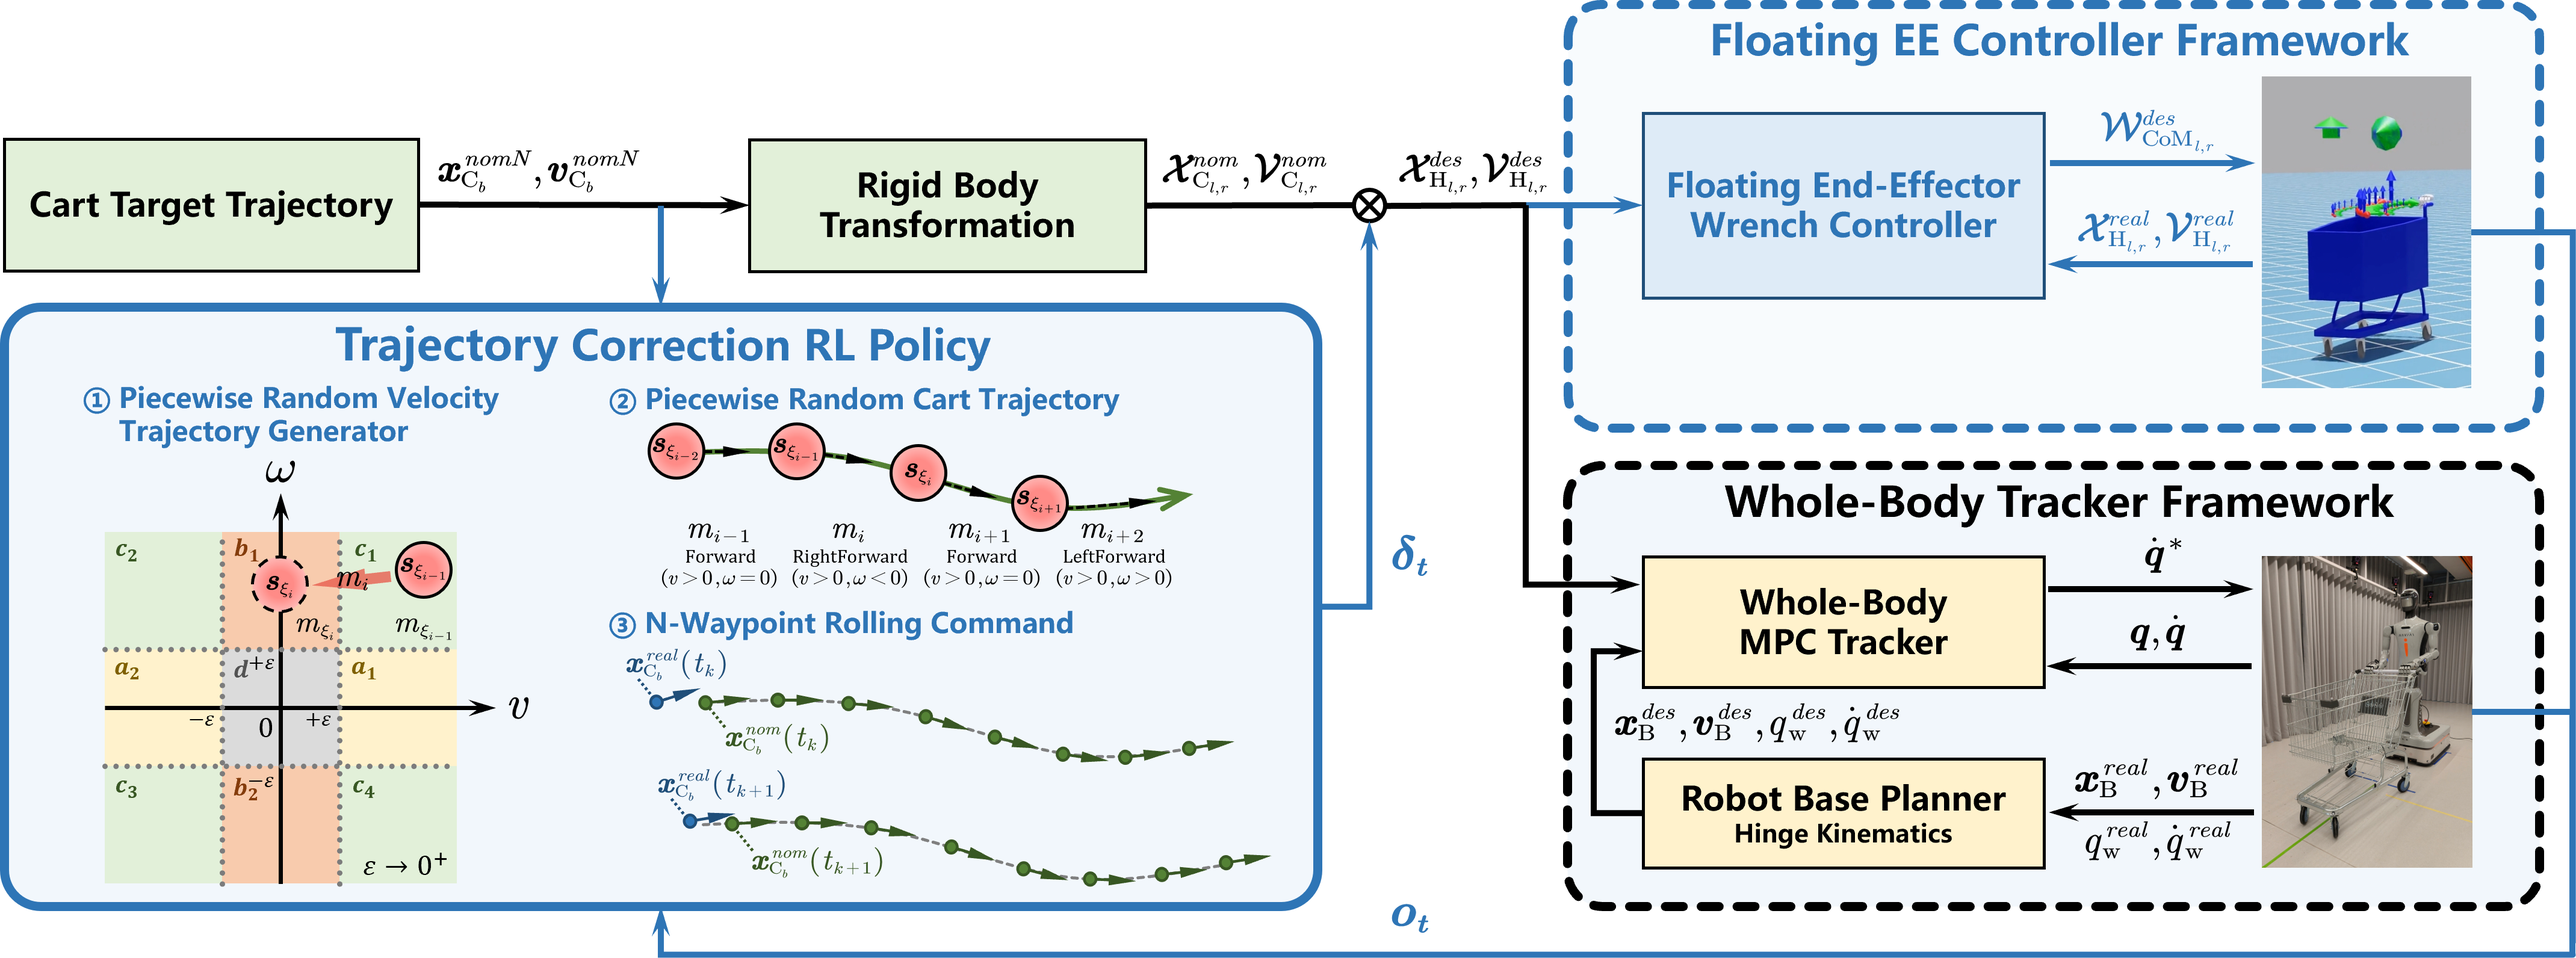
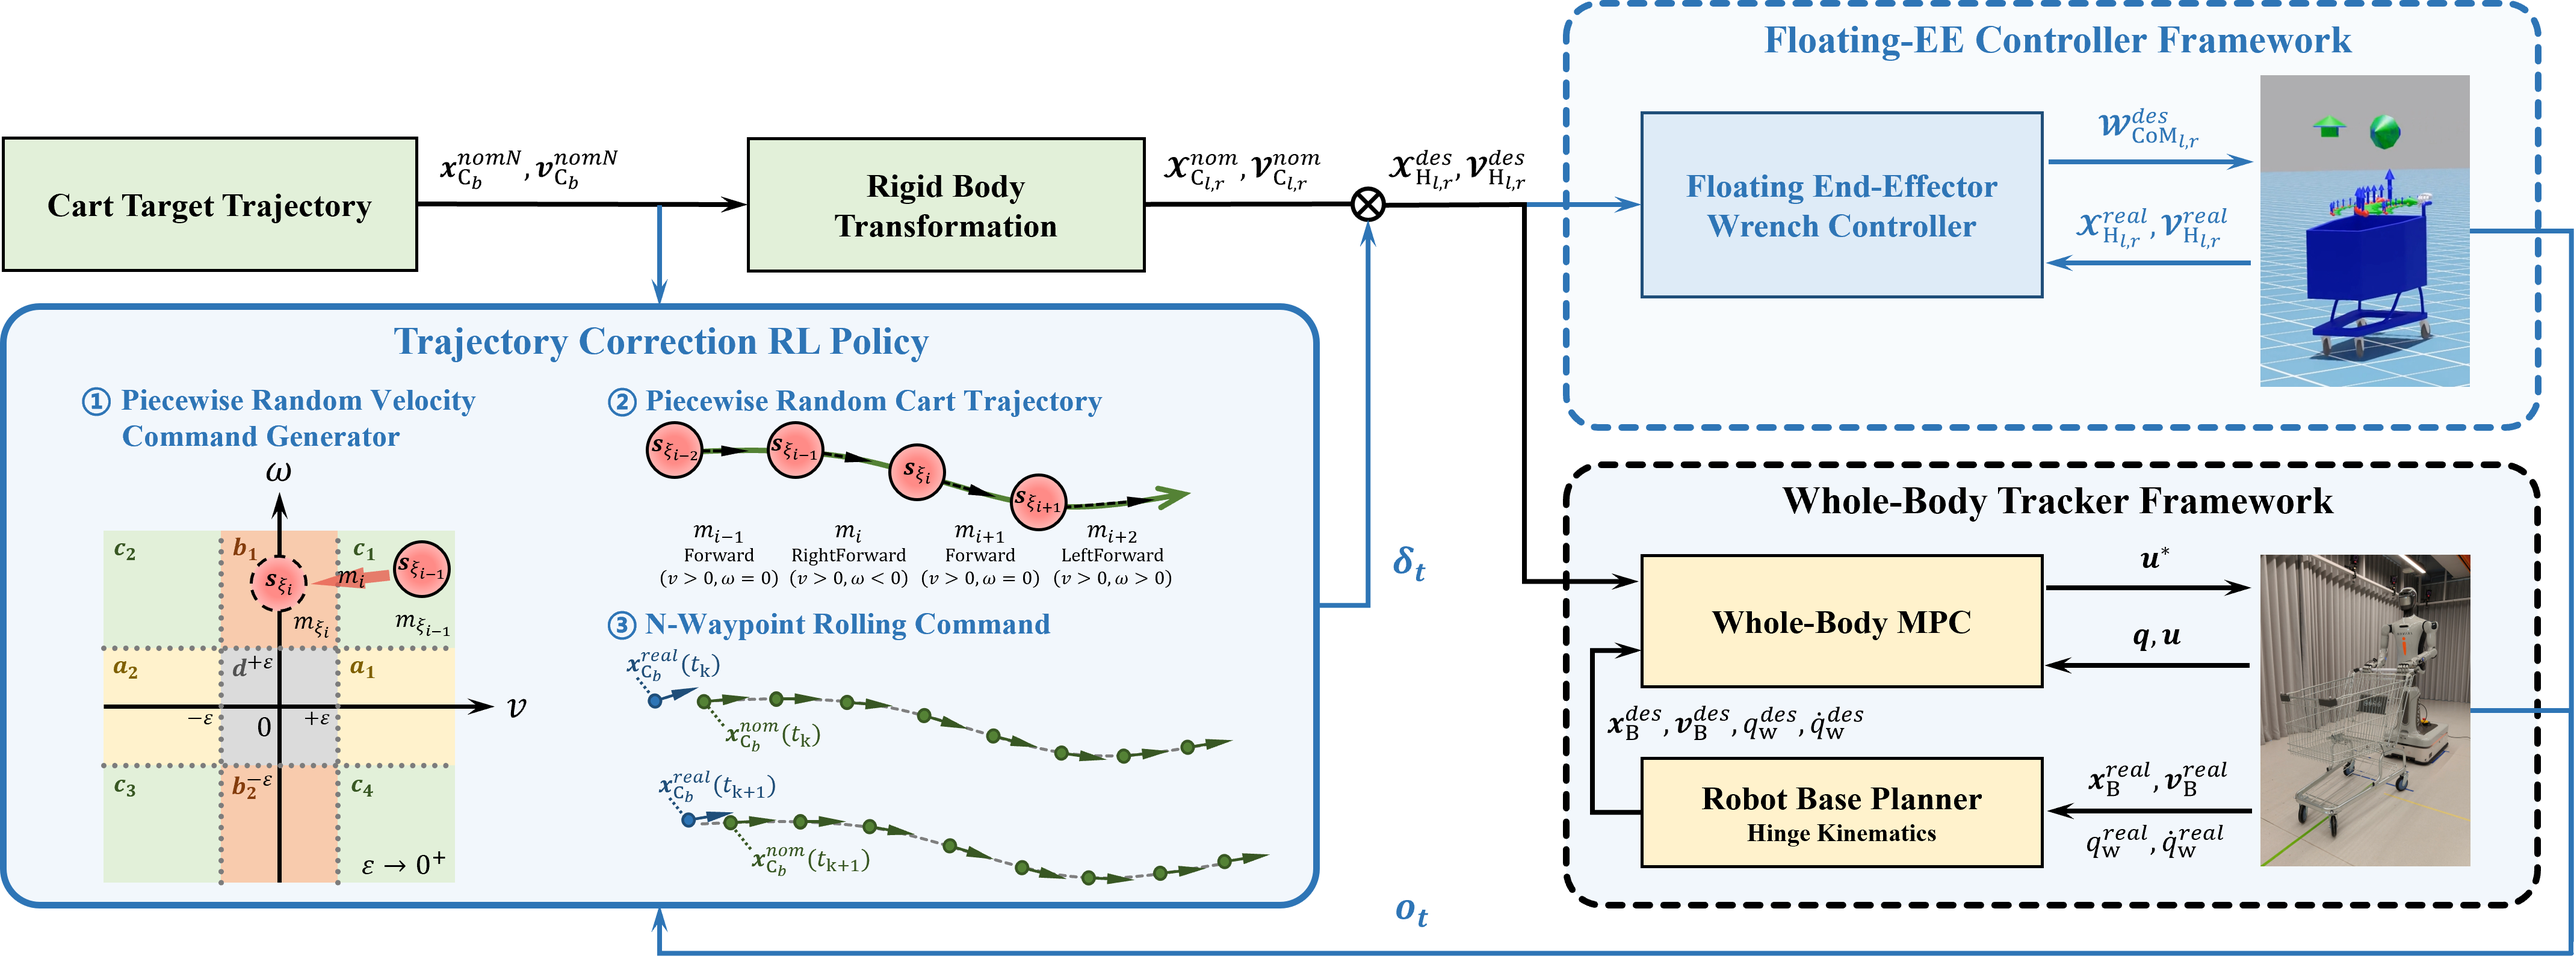
Sync website with revised manuscript

diff --git a/index.html b/index.html
@@ -51,6 +51,7 @@
 
           <div class="is-size-6 publication-authors">
             <span class="author-block"><sup>*</sup>Corresponding author.</span>
+          </div>
 
           <div class="affiliation-logos">
             <img src="./static/images/logo-zju.png" alt="Zhejiang University" class="affiliation-logo affiliation-logo-zju">
@@ -126,7 +127,7 @@
         <h2 class="title is-3">Abstract</h2>
         <div class="content has-text-justified">
           <p>
-            Cart handling is a challenging mobile manipulation task affected by unknown friction, uncertain payloads, complex motion modes, and bimanual coordination. Moreover, the end-effector-handle interactions feature diverse patterns, including spacing, sticking, and sliding, which are difficult to model. To address these challenges, we propose a task-space reinforcement learning (RL) framework that generates real-time corrections to nominal end-effector (EE) trajectories, thereby optimizing contact behavior and improving tracking performance without relying on precise dynamic models. Specifically, the framework consists of (i) a task-space floating EE controller for RL training and whole-body deployment, (ii) a piecewise random trajectory generator that unifies pushing, pulling, and steering within a single policy, and (iii) a tailored curriculum learning and domain randomization scheme to enhance cross-scenario generalization. Extensive simulation and real-world experiments demonstrate that the proposed method reduces cart trajectory tracking errors by nearly 30% compared with the evaluated baselines and achieves performance comparable to skilled human operators.
+            Cart handling is a challenging mobile manipulation task affected by unknown friction, uncertain payloads, complex motion modes, and bimanual coordination. Moreover, the end-effector-handle interactions feature diverse patterns, including spacing, sticking, and sliding, which are difficult to model. To address these challenges, we propose a task-space reinforcement learning (RL) framework that generates real-time corrections to nominal end-effector (EE) trajectories, thereby optimizing contact behavior and improving tracking performance without relying on precise dynamic models. Specifically, the framework consists of (i) a task-space floating-EE controller for RL training and whole-body deployment, (ii) a piecewise random velocity command generator that unifies pushing, pulling, and steering within a single policy, and (iii) a tailored curriculum learning and domain randomization scheme to enhance cross-scenario generalization. Extensive real-world experiments demonstrate that the proposed method reduces the cart position and orientation tracking errors by 30.4% and 36.3% on average, respectively, relative to the best evaluated baseline in each of the 12 real-world cases, and achieves tracking performance close to that of skilled human operators under uncertain cart payloads.
           </p>
         </div>
         <div class="figure-media">
@@ -207,13 +208,14 @@
       <div class="column is-four-fifths">
         <h2 class="title is-3">Method</h2>
         <div class="figure-media">
-          <img src="./static/images/method.png" 
-               style="max-width: 100%; height: auto;" 
-               alt="Method figure 3"/>
+          <img src="./static/images/method.png"
+               class="zoomable-image"
+               style="max-width: 100%; height: auto;"
+               alt="Overview of the proposed task-space RL-based trajectory correction framework"/>
         </div>
         <div class="content has-text-justified block-caption">
           <p>
-            The proposed hierarchical framework couples a high-level RL trajectory correction strategy with low-level model-based controllers for bimanual cart manipulation. The RL policy (25Hz) takes the nominal cart trajectory and observations as inputs and outputs the EE perturbations as corrections. Then, the desired EE trajectories are updated by the perturbations and are tracked by two low-level controllers. The floating EE controller (200Hz) supports parallel RL training in task space with real-time feedback, while the whole-body tracker (50Hz) coordinates the upper-body and chassis motions for physical deployment. The system forms a cascaded two-loop structure: the outer RL loop generates corrections based on tracking feedback, while the inner loop executes the motion. This design allows the RL policy to focus on high-level trajectory correction, while the low-level controllers enforce kinodynamic constraints and compensate for disturbances.
+            The proposed hierarchical framework couples a high-level RL trajectory correction strategy with low-level model-based controllers for bimanual cart manipulation. The RL policy (25Hz) takes the nominal cart trajectory and observations as inputs and outputs the EE perturbations as corrections. Then, the desired EE trajectories are updated by the perturbations and are tracked by two low-level controllers. The floating-EE controller (200Hz) supports parallel RL training in task space with real-time feedback, while the whole-body tracker (50Hz) coordinates the upper-body and chassis motions for physical deployment. The system forms a cascaded two-loop structure: the outer RL loop generates corrections based on tracking feedback, while the inner loop executes the motion. This design allows the RL policy to focus on high-level trajectory correction, while the low-level controllers enforce kinodynamic constraints and compensate for disturbances.
           </p>
         </div>
       </div>
@@ -249,8 +251,9 @@
         <h3 class="title is-4">Predefined Trajectories</h3>
         <div class="figure-media">
           <img src="./static/images/predefined_traj.png"
+               class="zoomable-image"
                style="max-width: 100%; height: auto;"
-               alt="Predefined nominal trajectories TrajA–TrajE"/>
+               alt="Predefined cart nominal trajectories TrajA–TrajE"/>
         </div>
         <div class="content has-text-justified block-caption">
           <p>
@@ -296,8 +299,9 @@
         <h3 class="title is-4">Results</h3>
         <div class="figure-media">
           <img src="./static/images/results.png"
+               class="zoomable-image"
                style="max-width: 100%; height: auto;"
-               alt="Predefined nominal trajectories TrajA–TrajE"/>
+               alt="Heatmap of cart trajectory tracking errors across simulation and real-world cases"/>
         </div>
         <div class="content has-text-justified block-caption">
           <p>
@@ -328,9 +332,15 @@
     </div>
 
     <h4 class="title is-5 has-text-centered subsection-title result-tier-2">EE Generalization</h4>
-    <p class="has-text-centered content block-caption" style="max-width: 52rem; margin-left: auto; margin-right: auto;">
-      Generalizability across diverse EE configurations in IsaacLab.
-    </p>
+    <div class="columns is-centered">
+      <div class="column is-four-fifths">
+        <div class="content has-text-justified block-caption">
+          <p>
+            Generalizability across diverse EE configurations in IsaacLab.
+          </p>
+        </div>
+      </div>
+    </div>
 
     <h5 class="title is-6 has-text-centered subsection-title result-tier-3">Three-Finger Gripper</h5>
     <div class="columns is-centered video-result-row">
@@ -367,9 +377,15 @@
 
 
     <h4 class="title is-5 has-text-centered subsection-title result-tier-2">Cart Generalization</h4>
-    <p class="has-text-centered content block-caption" style="max-width: 52rem; margin-left: auto; margin-right: auto;">
-      Zero-shot generalization across diverse wheeled platforms in IsaacLab.
-    </p>
+    <div class="columns is-centered">
+      <div class="column is-four-fifths">
+        <div class="content has-text-justified block-caption">
+          <p>
+            Zero-shot generalization across diverse wheeled platforms in IsaacLab.
+          </p>
+        </div>
+      </div>
+    </div>
 
     <h5 class="title is-6 has-text-centered subsection-title result-tier-3">Flatbed Cart</h5>
     <div class="columns is-centered video-result-row">
@@ -419,20 +435,21 @@
       </div>
     </div>    
 
-    <h5 class="title is-6 has-text-centered subsection-title result-tier-3">SimpleRL Baseline</h5>
+    <h4 class="title is-5 has-text-centered subsection-title result-tier-2">SimpleRL Baseline</h4>
     <div class="columns is-centered">
       <div class="column is-four-fifths">
         <div class="content has-text-justified block-caption">
           <p>
-            SimpleRL is a floating EE control strategy commonly adopted in existing RL-based manipulation approaches, where wrist wrenches are used as control actions. However, it exhibits significant tracking errors when deployed zero-shot on larger and heavier unseen objects.
+            SimpleRL is a floating-EE control strategy commonly adopted in existing RL-based manipulation approaches, where wrist wrenches are output as action. The wrench is applied in a zero-order hold manner within each simulation step, rather than the real-time error-feedback formulation used by our method. SimpleRL exhibits substantially larger tracking errors than our method when deployed zero-shot on larger and heavier unseen wheeled platforms. 
           </p>
         </div>
       </div>
     </div>
     <div class="figure-media">
       <img src="./static/images/simpleRLvsOurs.png"
+           class="zoomable-image"
            style="max-width: 100%; height: auto;"
-           alt="Predefined nominal trajectories TrajA–TrajE"/>
+           alt="Cart trajectory tracking comparison between SimpleRL and our method on unseen wheeled platforms"/>
     </div>
     <div class="columns is-centered video-result-row">
       <div class="column is-5">
@@ -556,29 +573,29 @@
 
 </section>
 
-<!-- <section class="section" id="BibTeX">
+<section class="section" id="BibTeX">
   <div class="container is-max-desktop content">
     <h2 class="title">BibTeX</h2>
-    <pre><code>@article{park2021nerfies,
-  author    = {A, B, C},
-  title     = {RL-Augmented Bimanual Mobile Manipulation for Cart Handling},
-  journal   = {},
-  year      = {},
+    <pre><code>@article{tu2026cart,
+  author  = {Tu, Baining and Cui, Yuxiang and Yu, Hongxiang and Chen, Lu and Xiong, Rong},
+  title   = {Task-space RL-based trajectory correction for robust cart handling with bimanual mobile manipulators},
+  journal = {Science China Technological Sciences},
+  year    = {2026},
+  note    = {Under revision},
 }</code></pre>
   </div>
-</section> -->
+</section>
 
 
 <footer class="footer">
-    <div class="columns is-centered">
-      <div class="column is-8">
-        <div class="content">
-          <p>
-            Website based on <a href="https://nerfies.github.io/">Nerfies</a>, under the <a rel="license"
-                                                href="http://creativecommons.org/licenses/by-sa/4.0/">Creative
-            Commons Attribution-ShareAlike 4.0 International License</a>.
-          </p>
-        </div>
+  <div class="columns is-centered">
+    <div class="column is-8">
+      <div class="content">
+        <p>
+          Website based on <a href="https://nerfies.github.io/">Nerfies</a>, under the <a rel="license"
+                                              href="http://creativecommons.org/licenses/by-sa/4.0/">Creative
+          Commons Attribution-ShareAlike 4.0 International License</a>.
+        </p>
       </div>
     </div>
   </div>
